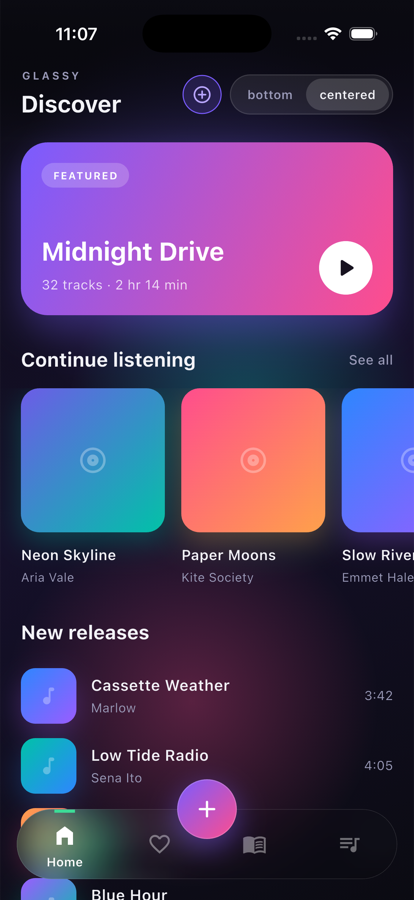
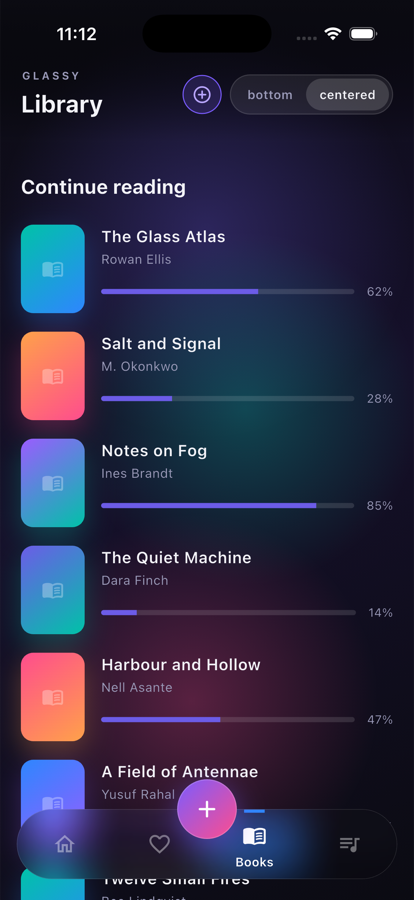
docs: show the docked button on the Books destination
The docked-button screenshot repeated the same page as the first one. It
now shows Books, so the three screenshots cover three destinations.

The reading list gains three more titles so it runs past the bottom of the
screen, which puts content under the glass instead of empty background.

diff --git a/example/lib/demo_ui.dart b/example/lib/demo_ui.dart
@@ -569,6 +569,9 @@ const List<(String, String, double)> _books = [
   ('Salt and Signal', 'M. Okonkwo', 0.28),
   ('Notes on Fog', 'Ines Brandt', 0.85),
   ('The Quiet Machine', 'Dara Finch', 0.14),
+  ('Harbour and Hollow', 'Nell Asante', 0.47),
+  ('A Field of Antennae', 'Yusuf Rahal', 0.73),
+  ('Twelve Small Fires', 'Bea Lindqvist', 0.05),
 ];
 
 class LibraryPage extends StatelessWidget {

diff --git a/README.md b/README.md
@@ -5,7 +5,7 @@ per-item active colours and two layouts.
   <tr>
     <td align="center"><img src="https://raw.githubusercontent.com/ihsankottupadam/flutter-glassy-bottom-nav/master/screenshots/centered.png" width="250" alt="The bar floating as a pill above the bottom edge"></td>
     <td align="center"><img src="https://raw.githubusercontent.com/ihsankottupadam/flutter-glassy-bottom-nav/master/screenshots/bottom.png" width="250" alt="The bar docked to the bottom edge"></td>
-    <td align="center"><img src="https://raw.githubusercontent.com/ihsankottupadam/flutter-glassy-bottom-nav/master/screenshots/docked_button.png" width="250" alt="A center-docked floating action button over the bar"></td>
+    <td align="center"><img src="https://raw.githubusercontent.com/ihsankottupadam/flutter-glassy-bottom-nav/master/screenshots/docked_button.png" width="250" alt="A center-docked action button over the bar on the Books destination"></td>
   </tr>
   <tr>
     <td align="center"><code>GlassyNavbarType.centered</code><br>a floating pill</td>
